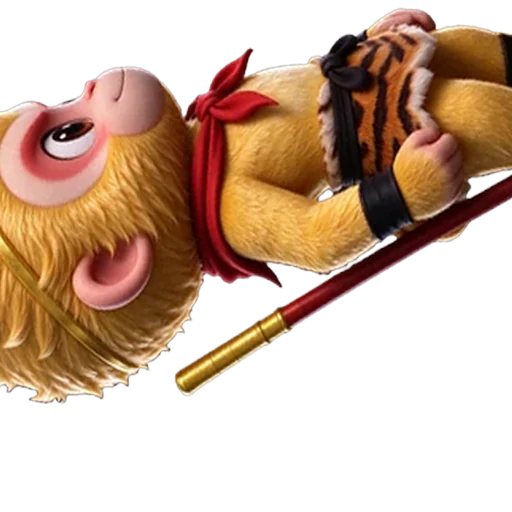
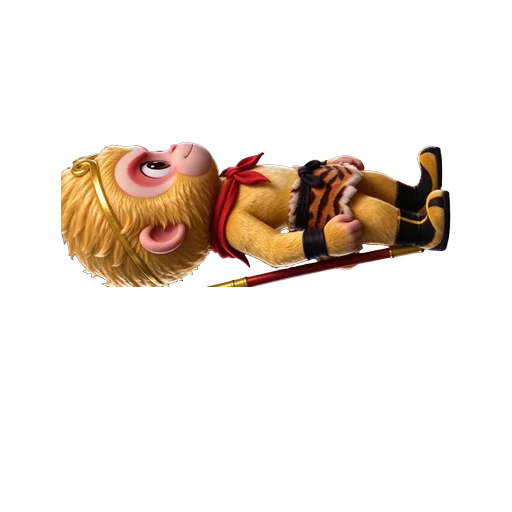
悟空后空翻v2:三段式动作(站立起跳-团身抱膝翻滚-展开落地),统一最长边缩放修复忽大忽小与卡片痕迹,倒立帧无越界

diff --git a/scripts/gen_side_flip.py b/scripts/gen_side_flip.py
@@ -1,9 +1,9 @@
 # -*- coding: utf-8 -*-
 """
-悟空"标准侧视后空翻"24 帧生成器
-素材：side-stand.webp（面向右的侧身站立悟空，抠图透明）
-原理：侧身图绕重心逆时针旋转 360°（头 上→左→下→右→上 = 标准的"从前往后"后空翻路径），
-      叠加抛物线位移（倒立点最高）+ 空中收腿（scaleX 收缩，倒立时最蜷）
+悟空"标准侧视后空翻"24 帧生成器 v2
+素材：side-stand.webp（面向右侧身站立）+ side-tuck.webp（空中团身抱膝）
+三段式动作：站立起跳(0-90°) → 团身翻滚(90-210°，身体蜷成球) → 展开落地(210-360°)
+关键修复：统一"最长边"缩放（主体视觉大小恒定，无忽大忽小、无过度放大锯齿）
 输出：public/images/ai-assistant/anim/side-flip-00.webp .. side-flip-23.webp（512x512 RGBA）
 """
 import os
@@ -14,32 +14,41 @@ BASE = r'C:\Users\张宏飞\Desktop\website_source\russian-learning-frontend-mai
 OUT = os.path.join(BASE, 'anim')
 os.makedirs(OUT, exist_ok=True)
 
-src = Image.open(os.path.join(BASE, 'side-stand.webp')).convert('RGBA')
-bbox = src.getbbox()
-body = src.crop(bbox) if bbox else src
-bw, bh = body.size
+MAX_EDGE = 390   # 主体最长边统一值（站立=高390；横躺=宽390；配合 dy 峰值不越界）
 
-TARGET_H = 470   # 主体统一高度
-N = 24           # 24 帧，每 15° 一步
+def load_body(name):
+    im = Image.open(os.path.join(BASE, name + '.webp')).convert('RGBA')
+    bbox = im.getbbox()
+    return im.crop(bbox) if bbox else im
 
-def render(angle_deg, dy, scale_x):
-    im = body.rotate(angle_deg, center=(bw/2, bh*0.55), expand=True, resample=Image.BICUBIC)
+STAND = load_body('side-stand')
+TUCK = load_body('side-tuck')
+
+def render(body, angle_deg, dy):
+    im = body.rotate(angle_deg, center=(body.size[0]/2, body.size[1]*0.55), expand=True, resample=Image.BICUBIC)
     b2 = im.getbbox()
     c = im.crop(b2)
+    # 边缘去杂色：alpha 过低视为透明（putalpha 为就地修改，不接收返回值）
+    a = c.getchannel('A')
+    c.putalpha(a.point(lambda x: 0 if x < 10 else x))
+    c = c.crop(c.getbbox())
     w2, h2 = c.size
-    sc = TARGET_H / h2
-    c = c.resize((max(1, int(w2*sc*scale_x)), TARGET_H), Image.LANCZOS)
+    m = max(w2, h2)
+    sc = MAX_EDGE / m
+    c = c.resize((max(1, int(w2 * sc)), max(1, int(h2 * sc))), Image.LANCZOS)
     canvas = Image.new('RGBA', (512, 512), (0, 0, 0, 0))
-    canvas.paste(c, ((512 - c.size[0]) // 2, (512 - TARGET_H) // 2 + int(dy)), c)
+    canvas.paste(c, ((512 - c.size[0]) // 2, (512 - c.size[1]) // 2 + int(dy)), c)
     return canvas
 
-for i in range(N):
-    angle = i * 15                     # 0..345，逆时针（向后翻）
-    rad = math.radians(angle)
-    sinv = math.sin(rad / 2)           # 0 -> 1 -> 0（0°→180°→360°）
-    dy = -105 * sinv                   # 抛物线：倒立点最高
-    scale_x = 1 - 0.16 * sinv          # 空中收腿：倒立时最蜷
-    im = render(angle, dy, scale_x)
+for i in range(24):
+    if i <= 7:        # 起跳段：站立，0°→90°
+        body, angle = STAND, i * (90 / 7)
+    elif i <= 15:     # 团身段：团身，90°→210°
+        body, angle = TUCK, 90 + (i - 8) * 15
+    else:             # 展开落地段：站立，210°→360°
+        body, angle = STAND, 210 + (i - 16) * (150 / 7)
+    dy = -60 * math.sin(math.radians(angle) / 2)
+    im = render(body, angle, dy)
     fp = os.path.join(OUT, 'side-flip-%02d.webp' % i)
     im.save(fp, 'WEBP', quality=88, method=6)
-    print('side-flip-%02d.webp' % i, 'angle=%d dy=%d sx=%.2f' % (angle, dy, scale_x), os.path.getsize(fp))
+    print('side-flip-%02d.webp' % i, 'angle=%.1f dy=%d' % (angle, dy), os.path.getsize(fp))
